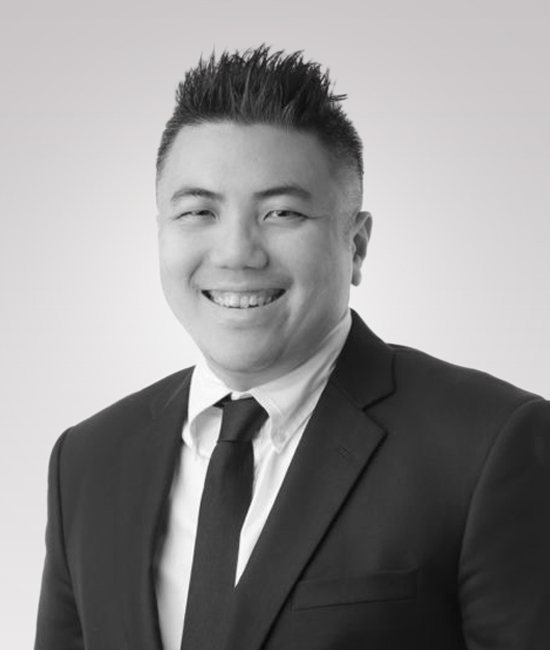
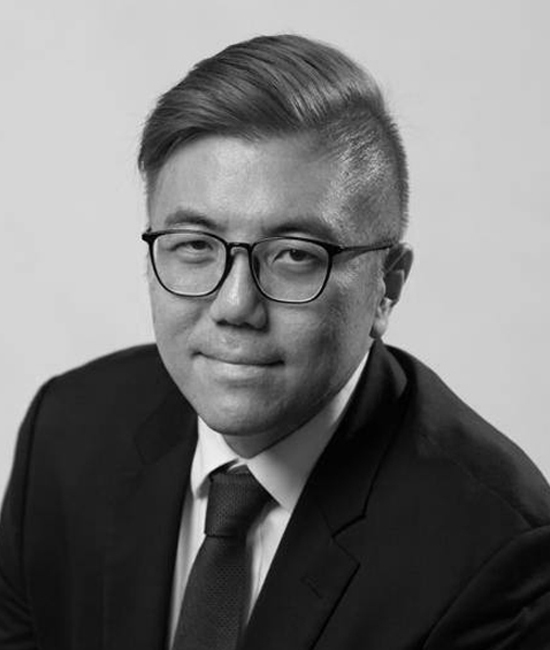
Update about.php

diff --git a/about.php b/about.php
@@ -274,7 +274,7 @@
                                     <img src="assets/images/team/core-team/chen-shanlong.jpg" class="img-fluid team-img br-15" alt="Chen Shanlong">
                                 </picture>
                                 <h3 class="team-infoHead mt-3 mb-2">Chen Shanlong</h3>
-                                <p class="text-muted lh-sm mb-0">Head of Asia Ex-Japan</p>
+                                <p class="text-muted lh-sm mb-0">Chief Partnerships Officer</p>
                             </div>
                         </a>
                     </div>
@@ -519,7 +519,7 @@
                     <div class="team__content">
                         <div class="short-desc">
                             <h2 class="fw-6">Sunil Senapati</h2>
-                            <p class="designation fs-6">Chief Operating Officer – Trade & Payments</p>
+                            <p class="designation fs-6">Chief Executive Officer - XDC Trade Network</p>
                         </div>
                         <div class="long-desc">
                             <div class="mt-0 my-4">
@@ -872,7 +872,7 @@
                     <div class="team__content">
                         <div class="short-desc">
                             <h2 class="fw-6">Chen Shanlong</h2>
-                            <p class="designation fs-6">Head of Asia Ex-Japan</p>
+                            <p class="designation fs-6">Chief Partnerships Officer</p>
                         </div>
                         <div class="long-desc">
                             <div class="mt-0 my-4">